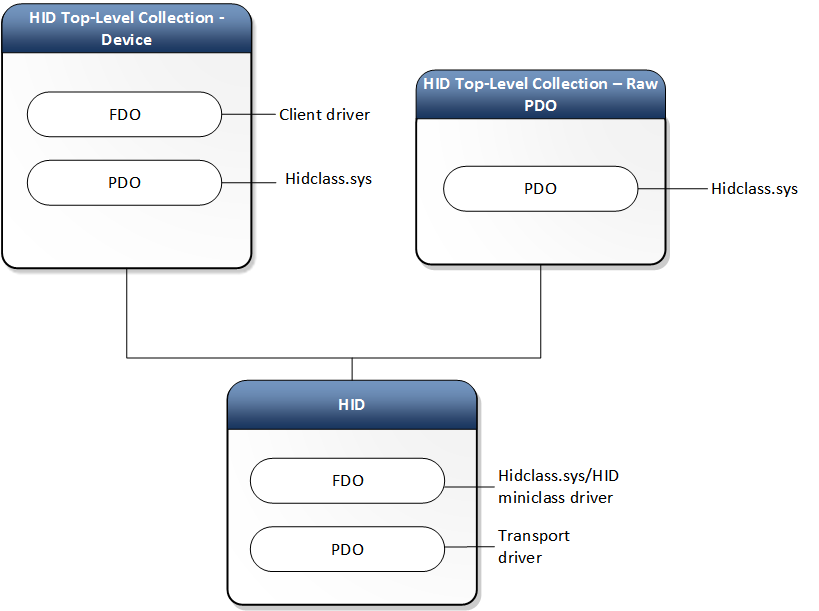
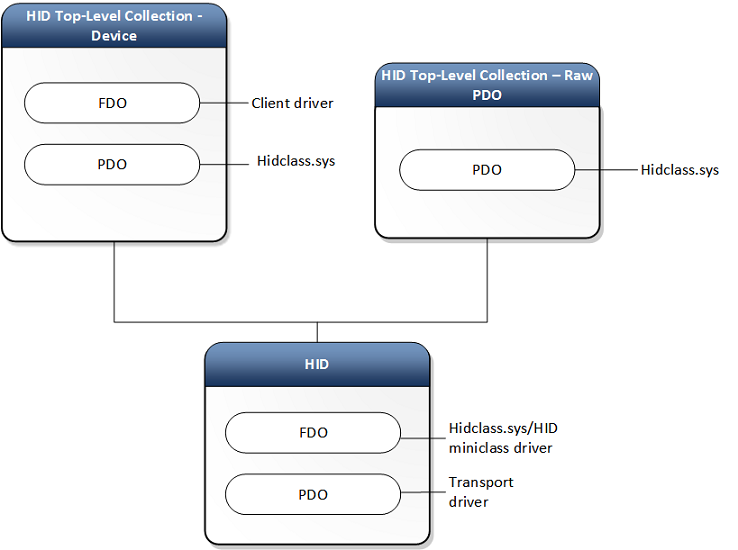
Customer Feedback

diff --git a/windows-driver-docs-pr/hid/hid-clients-supported-in-windows.md b/windows-driver-docs-pr/hid/hid-clients-supported-in-windows.md
@@ -13,154 +13,28 @@ description:
 
 Windows supports the following top-level collections:
 
-<table style="width:100%;">
-<colgroup>
-<col width="14%" />
-<col width="14%" />
-<col width="14%" />
-<col width="14%" />
-<col width="14%" />
-<col width="14%" />
-<col width="14%" />
-</colgroup>
-<thead>
-<tr class="header">
-<th>Usage Page</th>
-<th>Usage</th>
-<th>Windows 7</th>
-<th>Windows 8</th>
-<th>Windows 10</th>
-<th>Notes</th>
-<th>Access Mode</th>
-</tr>
-</thead>
-<tbody>
-<tr class="odd">
-<td>0x0001</td>
-<td>0x0001 - 0x0002</td>
-<td>Yes</td>
-<td>Yes</td>
-<td>Yes</td>
-<td>Mouse class driver and mapper driver</td>
-<td>Exclusive</td>
-</tr>
-<tr class="even">
-<td>0x0001</td>
-<td>0x0004 - 0x0005</td>
-<td>Yes</td>
-<td>Yes</td>
-<td>Yes</td>
-<td>Game Controllers</td>
-<td>Shared</td>
-</tr>
-<tr class="odd">
-<td>0x0001</td>
-<td>0x0006 - 0x0007</td>
-<td>Yes</td>
-<td>Yes</td>
-<td>Yes</td>
-<td>Keyboard / Keypad class driver and mapper driver</td>
-<td>Exclusive</td>
-</tr>
-<tr class="even">
-<td>0x0001</td>
-<td>0x000C</td>
-<td>No</td>
-<td>Yes</td>
-<td>Yes</td>
-<td>Flight Mode Switch</td>
-<td>Shared</td>
-</tr>
-<tr class="odd">
-<td>0x0001</td>
-<td>0x0080</td>
-<td>Yes</td>
-<td>Yes</td>
-<td>Yes</td>
-<td>System Controls (Power)</td>
-<td>Shared</td>
-</tr>
-<tr class="even">
-<td>0x000C</td>
-<td>0x0001</td>
-<td>Yes</td>
-<td>Yes</td>
-<td><p>Yes</p>
-<p>(For both Windows 10 and Windows 10 Mobile)</p></td>
-<td>Consumer Controls</td>
-<td><p>Shared</p>
-<p>(For both Windows 10 and Windows 10 Mobile)</p></td>
-</tr>
-<tr class="odd">
-<td>0x000D</td>
-<td>0x0001</td>
-<td>Yes</td>
-<td>Yes</td>
-<td>Yes</td>
-<td>External Pen Device</td>
-<td>Exclusive</td>
-</tr>
-<tr class="even">
-<td>0x000D</td>
-<td>0x0002</td>
-<td>Yes</td>
-<td>Yes</td>
-<td>Yes</td>
-<td>Integrated Pen Device</td>
-<td>Exclusive</td>
-</tr>
-<tr class="odd">
-<td>0x000D</td>
-<td>0x0004</td>
-<td>Yes</td>
-<td>Yes</td>
-<td>Yes</td>
-<td>Touchscreen</td>
-<td>Exclusive</td>
-</tr>
-<tr class="even">
-<td>0x000D</td>
-<td>0x0005</td>
-<td>No</td>
-<td>Yes</td>
-<td>Yes</td>
-<td>Precision Touchpad (PTP)</td>
-<td>Exclusive</td>
-</tr>
-<tr class="odd">
-<td>0x0020</td>
-<td>Multiple</td>
-<td>No</td>
-<td>Yes</td>
-<td>Yes</td>
-<td>Sensors</td>
-<td>Shared</td>
-</tr>
-<tr class="even">
-<td>0x0084</td>
-<td>0x004</td>
-<td>Yes</td>
-<td>Yes</td>
-<td>Yes</td>
-<td>HID UPS Battery</td>
-<td>Shared</td>
-</tr>
-<tr class="odd">
-<td>0x008C</td>
-<td>0x0002</td>
-<td>No</td>
-<td><p>Yes</p>
-<p>(Windows 8.1 and later)</p></td>
-<td>Yes</td>
-<td>Barcode Scanner (hidscanner.dll)</td>
-<td>Shared</td>
-</tr>
-</tbody>
-</table>
+| **Usage Page** | **Usage** | **Windows 7** | **Windows 8** | **Windows 10** | **Notes** | **Access Mode** |
+| --- | --- | --- | --- | --- | --- | --- |
+| 0x0001 | 0x0001 - 0x0002 | Yes | Yes | Yes | Mouse class driver and mapper driver | Exclusive |
+| 0x0001 | 0x0004 - 0x0005 | Yes | Yes | Yes | Game Controllers | Shared |
+| 0x0001 | 0x0006 - 0x0007 | Yes | Yes | Yes | Keyboard / Keypad class driver and mapper driver | Exclusive |
+| 0x0001 | 0x000C | No | Yes | Yes | Flight Mode Switch | Shared |
+| 0x0001 | 0x0080 | Yes | Yes | Yes | System Controls (Power) | Shared |
+| 0x000C | 0x0001 | Yes | Yes | Yes(For both Windows 10 and Windows 10 Mobile) | Consumer Controls | Shared(For both Windows 10 and Windows 10 Mobile) |
+| 0x000D | 0x0001 | Yes | Yes | Yes | External Pen Device | Exclusive |
+| 0x000D | 0x0002 | Yes | Yes | Yes | Integrated Pen Device | Exclusive |
+| 0x000D | 0x0004 | Yes | Yes | Yes | Touchscreen | Exclusive |
+| 0x000D | 0x0005 | No | Yes | Yes | Precision Touchpad (PTP) | Exclusive |
+| 0x0020 | *Multiple | No | Yes | Yes | Sensors | Shared |
+| 0x0084 | 0x004 | Yes | Yes | Yes | HID UPS Battery | Shared |
+| 0x008C | 0x0002 | No | Yes(Windows 8.1 and later) | Yes | Barcode Scanner (hidscanner.dll) | Shared |
 
- 
 
- 
+In the preceding table, the access mode for input HID clients is Exclusive to prevent other HID clients intercepting or receiving global input state when they are not the target recipient of that input. Therefore for security reasons RIM (Raw Input Manager) opens all such devices exclusively. 
+
+Sharing mode allows multiple applications to access the device. For example, for barcode scanner multiple applications can inquire about the devices capabilities and retrieve statistics.  However, retrieving decoded data from a barcode scanner is done in exclusive mode. Usages are define by the [USB HID POS Scanner standard specification](https://go.microsoft.com/fwlink/?linkid=830661). 
+
+*Sensors usages from 0x00 – 0xFF are segmented for different purposes. For example 0x10 indicates a Biometric sensor; 0x40 indicates a Light sensor. Those allocations are not contiguous. For the list of sensor usages, see [Review Request 39:HID Usage Table Sensor Page](https://go.microsoft.com/fwlink/?linkid=830659). For information about the sensors usages that are supported in Windows, [HID Sensors Usages](https://go.microsoft.com/fwlink/?linkid=830658).
 
  
 

diff --git a/windows-driver-docs-pr/hid/hid-architecture.md b/windows-driver-docs-pr/hid/hid-architecture.md
@@ -31,7 +31,8 @@ The preceding diagram includes the following:
 
 Here is the device stack diagram of a generic HID client and transport.
 
-![HID device stack for a generic HID client and transport.](images/hid-device-stacks-generic.png){:height="600px" width="400px"}
+
+![HID device stack for a generic HID client and transport.](images/hid-device-stacks-generic.png)
 
 Here is another device stack diagram showing HID keyboard and mouse collections over USB.
 
